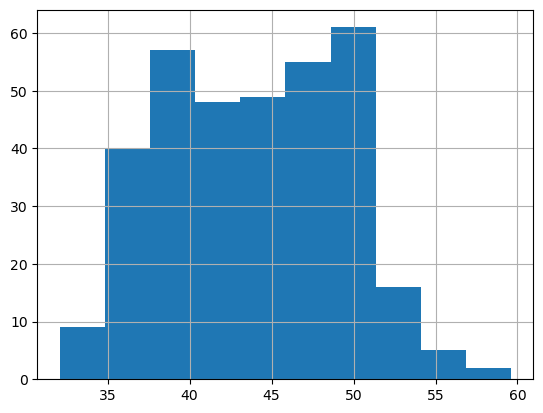
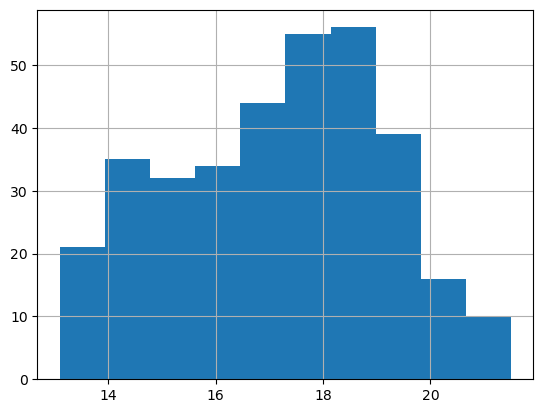
Built site for gh-pages

diff --git a/quarto-code/python_example.html b/quarto-code/python_example.html
@@ -253,13 +253,14 @@ pre > code.sourceCode > span > a:first-child::before { text-decoration: underlin
 
 </header>
 
-<div class="cell" data-execution_count="1">
-<div class="sourceCode cell-code" id="cb1"><pre class="sourceCode python code-with-copy"><code class="sourceCode python"><span id="cb1-1"><a href="#cb1-1" aria-hidden="true" tabindex="-1"></a><span class="im">import</span> pandas <span class="im">as</span> pd</span></code><button title="Copy to Clipboard" class="code-copy-button"><i class="bi"></i></button></pre></div>
+<div class="cell" data-execution_count="4">
+<div class="sourceCode cell-code" id="cb1"><pre class="sourceCode python code-with-copy"><code class="sourceCode python"><span id="cb1-1"><a href="#cb1-1" aria-hidden="true" tabindex="-1"></a><span class="im">import</span> pandas <span class="im">as</span> pd</span>
+<span id="cb1-2"><a href="#cb1-2" aria-hidden="true" tabindex="-1"></a><span class="im">import</span> matplotlib.pyplot <span class="im">as</span> plt</span></code><button title="Copy to Clipboard" class="code-copy-button"><i class="bi"></i></button></pre></div>
 </div>
-<div class="cell" data-execution_count="2">
+<div class="cell" data-execution_count="5">
 <div class="sourceCode cell-code" id="cb2"><pre class="sourceCode python code-with-copy"><code class="sourceCode python"><span id="cb2-1"><a href="#cb2-1" aria-hidden="true" tabindex="-1"></a>df<span class="op">=</span>pd.read_csv(<span class="st">'palmer-penguins.csv'</span>)</span>
 <span id="cb2-2"><a href="#cb2-2" aria-hidden="true" tabindex="-1"></a>df.describe()</span></code><button title="Copy to Clipboard" class="code-copy-button"><i class="bi"></i></button></pre></div>
-<div class="cell-output cell-output-display" data-execution_count="2">
+<div class="cell-output cell-output-display" data-execution_count="5">
 <div>
 
 
@@ -345,9 +346,9 @@ pre > code.sourceCode > span > a:first-child::before { text-decoration: underlin
 </div>
 </div>
 </div>
-<div class="cell" data-execution_count="3">
+<div class="cell" data-execution_count="6">
 <div class="sourceCode cell-code" id="cb3"><pre class="sourceCode python code-with-copy"><code class="sourceCode python"><span id="cb3-1"><a href="#cb3-1" aria-hidden="true" tabindex="-1"></a>df.head()</span></code><button title="Copy to Clipboard" class="code-copy-button"><i class="bi"></i></button></pre></div>
-<div class="cell-output cell-output-display" data-execution_count="3">
+<div class="cell-output cell-output-display" data-execution_count="6">
 <div>
 
 
@@ -427,9 +428,10 @@ pre > code.sourceCode > span > a:first-child::before { text-decoration: underlin
 </div>
 </div>
 </div>
-<div class="cell" data-execution_count="4">
-<div class="sourceCode cell-code" id="cb4"><pre class="sourceCode python code-with-copy"><code class="sourceCode python"><span id="cb4-1"><a href="#cb4-1" aria-hidden="true" tabindex="-1"></a>df[<span class="st">'bill_length_mm'</span>].hist()</span></code><button title="Copy to Clipboard" class="code-copy-button"><i class="bi"></i></button></pre></div>
-<div class="cell-output cell-output-display" data-execution_count="4">
+<div class="cell" data-execution_count="7">
+<div class="sourceCode cell-code" id="cb4"><pre class="sourceCode python code-with-copy"><code class="sourceCode python"><span id="cb4-1"><a href="#cb4-1" aria-hidden="true" tabindex="-1"></a>fig, ax <span class="op">=</span> plt.subplots()</span>
+<span id="cb4-2"><a href="#cb4-2" aria-hidden="true" tabindex="-1"></a>df[<span class="st">'bill_depth_mm'</span>].hist(ax<span class="op">=</span>ax)</span></code><button title="Copy to Clipboard" class="code-copy-button"><i class="bi"></i></button></pre></div>
+<div class="cell-output cell-output-display" data-execution_count="7">
 <pre><code>&lt;AxesSubplot:&gt;</code></pre>
 </div>
 <div class="cell-output cell-output-display">

diff --git a/quarto-code/quarto_python.html b/quarto-code/quarto_python.html
@@ -216,24 +216,25 @@ ul.task-list li input[type="checkbox"] {
 </header>
 
 <p>Repeating the <a href="../quarto-code/python_example.html">Python Example</a>, but with a python code cell. See <a href="https://quarto.org/docs/reference/cells/cells-jupyter.html">quarto documentation</a> for details.</p>
+<div class="cell" data-execution_count="1">
+<div class="cell-output cell-output-display">
+<div id="fig-penguins" class="quarto-figure quarto-figure-center anchored">
+<figure class="figure">
+<p><img src="quarto_python_files/figure-html/fig-penguins-output-1.png" width="566" height="411" class="figure-img"></p>
+<figcaption class="figure-caption">Figure&nbsp;1: A histogram of the penguin dataset</figcaption>
+</figure>
+</div>
+</div>
+</div>
+<div class="cell" data-execution_count="2">
+<div class="cell-output cell-output-display">
 <div id="fig-polar" class="quarto-figure quarto-figure-center anchored">
 <figure class="figure">
-<div id="fig-polar-1" class="quarto-figure quarto-figure-center anchored">
-<figure class="figure">
-<pre><code>&lt;Axes: &gt;</code></pre>
-<figcaption class="figure-caption">(a) A histogram of the penguin dataset</figcaption>
-</figure>
-</div>
-<div class="cell-output cell-output-display">
-<div id="fig-polar-2" class="quarto-figure quarto-figure-center anchored">
-<figure class="figure">
-<p><img src="quarto_python_files/figure-html/fig-polar-output-2.png" data-ref-parent="fig-polar" width="566" height="411" class="figure-img"></p>
-<figcaption class="figure-caption">(b)</figcaption>
+<p><img src="quarto_python_files/figure-html/fig-polar-output-1.png" width="450" height="439" class="figure-img"></p>
+<figcaption class="figure-caption">Figure&nbsp;2: A line plot on a polar axis</figcaption>
 </figure>
 </div>
 </div>
-<figcaption class="figure-caption">Figure&nbsp;1: <strong>?(caption)</strong></figcaption>
-</figure>
 </div>
 <p>Test</p>
 
